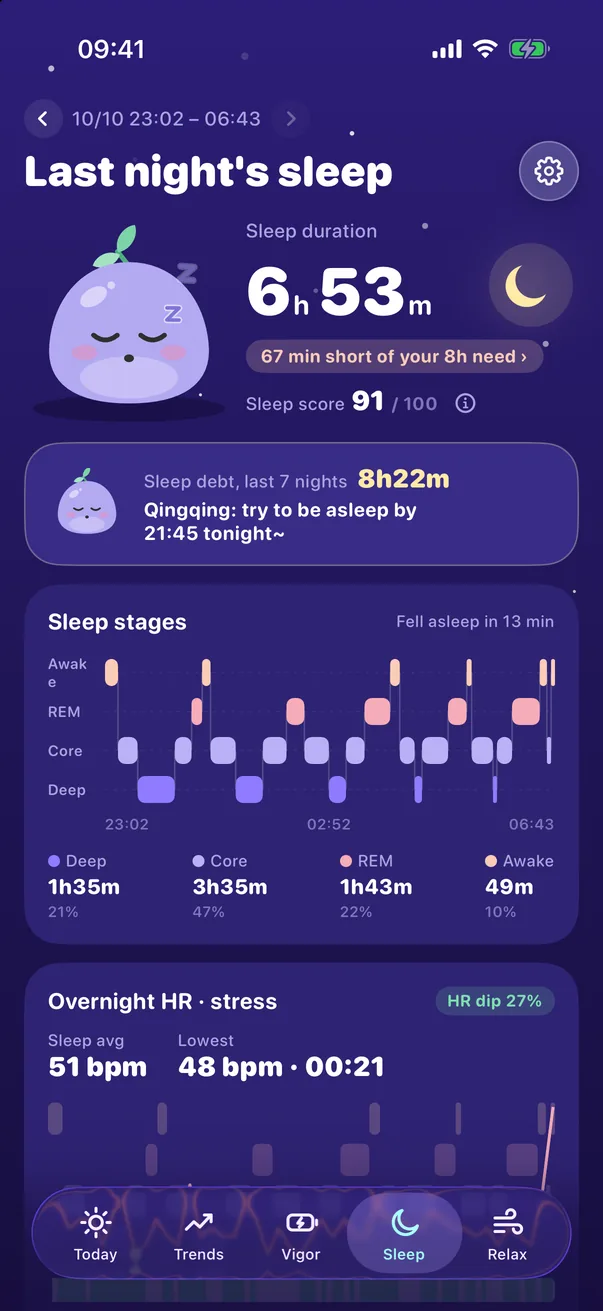
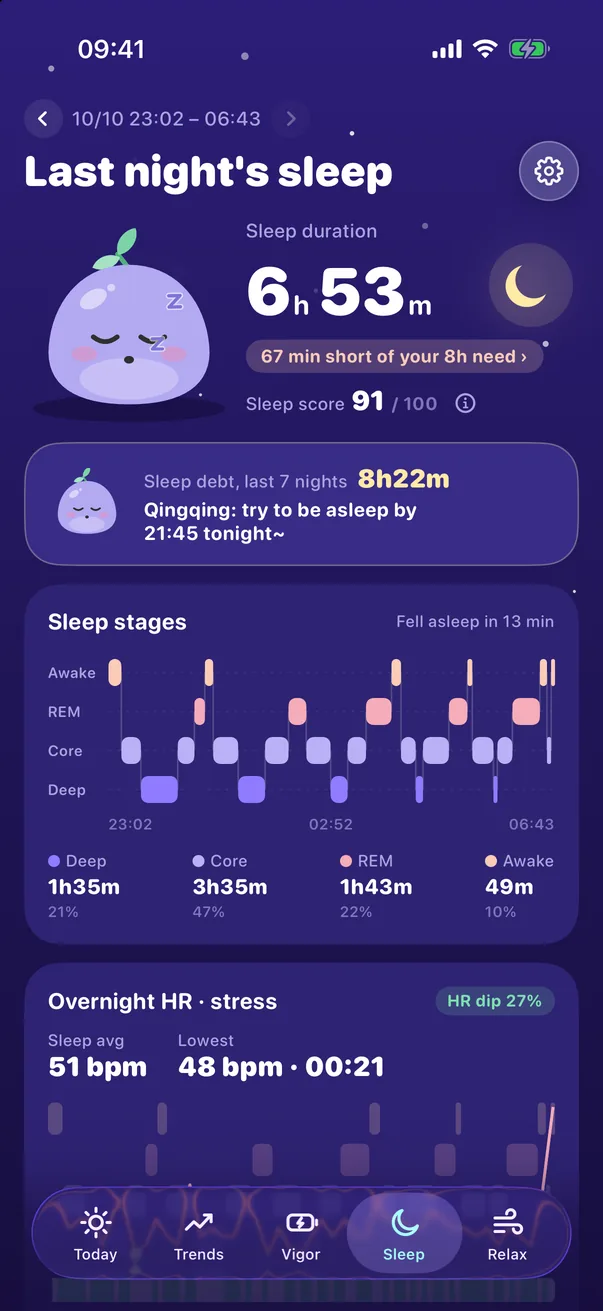
Homepage EN Sleep/Trends: retake screenshots after app l10n fixes (h/day, Awake label)

diff --git a/en/index.html b/en/index.html
@@ -19,7 +19,7 @@
 <img class="mas" src="../assets/qingqing.svg?v=ae6b4a3a9c" alt="" width="135" height="135"></div>
 <p class="shotnote">Screenshots from the current app (demo data).</p></section>
 <section id="features" class="feat"><div class="wrap"><p class="kick reveal">FEATURES</p><h2 class="reveal">Built around your own baseline</h2></div>
-<div class="wrap sgrid"><div class="steps"><div class="step reveal" data-step="0"><span class="n">01</span><h3>Stress, plain and clear</h3><p>HRV and resting heart rate become four clear levels — Chill, Steady, Tense, Stressed — with a stress index and 7-day average. Quick mood check-ins calibrate it to how you actually feel.</p><div class="inl"><div class="ph"><img src="../assets/today-en.webp?v=27ea3ea22e" alt="Clairsy Today" width="603" height="1311" loading="lazy"></div></div></div><div class="step reveal" data-step="1"><span class="n">02</span><h3>Daily Vigor drains</h3><p>Each morning Clairsy sets your Daily Vigor from recovery, sleep and training load — then stress drains it through the day, so you can see how much you have left.</p><div class="inl"><div class="ph"><img src="../assets/vigor-en.webp?v=d0a4bb5afe" alt="Daily Vigor" width="603" height="1311" loading="lazy"></div></div></div><div class="step reveal" data-step="2"><span class="n">03</span><h3>Sleep at a glance</h3><p>Last night’s duration, sleep score, 7-night sleep debt and stages — deep, core, REM and awake — all free, with Qingqing suggesting a bedtime. Membership adds in-depth sleep analysis.</p><div class="inl"><div class="ph"><img src="../assets/sleep-en.webp?v=1a15da07bf" alt="Sleep" width="603" height="1311" loading="lazy"></div></div></div><div class="step reveal" data-step="3"><span class="n">04</span><h3>Trends you can see</h3><p>Day, week and month views of your HRV against your baseline, a breakdown of time spent Chill, Steady, Tense and Stressed, and a stress heat map that shows when you tend to tense up. Trends are part of Clairsy Membership.</p><div class="inl"><div class="ph"><img src="../assets/trends-en.webp?v=7d393c052a" alt="Trends" width="603" height="1311" loading="lazy"></div></div></div><div class="step reveal" data-step="4"><span class="n">05</span><h3>Breathe it down</h3><p>Resonance breathing (4 in, 6 out), cyclic sighing, 4-7-8 and box breathing, with Qingqing breathing along — on iPhone and Apple Watch. Before-and-after readings show what changed.</p><div class="inl"><div class="ph"><img src="../assets/breath-en.webp?v=e8665a2bd9" alt="Breathing exercise" width="603" height="1311" loading="lazy"></div></div></div><div class="step reveal" data-step="5"><span class="n">06</span><h3>Your watch face keeps up</h3><p>Watch face and complications show your current level, with a one-tap “Measure now”, Home Screen widgets, and optional local stress alerts.</p><div class="inl"><div class="wa"><img src="../assets/watch-en.webp?v=7646d3a049" alt="Clairsy on Apple Watch" width="416" height="496" loading="lazy"></div></div></div></div><div class="sticky"><div class="devbox"><div class="frame on" data-frame="0"><div class="ph"><img src="../assets/today-en.webp?v=27ea3ea22e" alt="Clairsy Today" width="603" height="1311" loading="lazy"></div></div><div class="frame" data-frame="1"><div class="ph"><img src="../assets/vigor-en.webp?v=d0a4bb5afe" alt="Daily Vigor" width="603" height="1311" loading="lazy"></div></div><div class="frame" data-frame="2"><div class="ph"><img src="../assets/sleep-en.webp?v=1a15da07bf" alt="Sleep" width="603" height="1311" loading="lazy"></div></div><div class="frame" data-frame="3"><div class="ph"><img src="../assets/trends-en.webp?v=7d393c052a" alt="Trends" width="603" height="1311" loading="lazy"></div></div><div class="frame" data-frame="4"><div class="ph"><img src="../assets/breath-en.webp?v=e8665a2bd9" alt="Breathing exercise" width="603" height="1311" loading="lazy"></div></div><div class="frame" data-frame="5"><div class="wa"><img src="../assets/watch-en.webp?v=7646d3a049" alt="Clairsy on Apple Watch" width="416" height="496" loading="lazy"></div></div></div><div class="dots" aria-hidden="true"><i class="on"></i><i class=""></i><i class=""></i><i class=""></i><i class=""></i><i class=""></i></div></div></div></section>
+<div class="wrap sgrid"><div class="steps"><div class="step reveal" data-step="0"><span class="n">01</span><h3>Stress, plain and clear</h3><p>HRV and resting heart rate become four clear levels — Chill, Steady, Tense, Stressed — with a stress index and 7-day average. Quick mood check-ins calibrate it to how you actually feel.</p><div class="inl"><div class="ph"><img src="../assets/today-en.webp?v=27ea3ea22e" alt="Clairsy Today" width="603" height="1311" loading="lazy"></div></div></div><div class="step reveal" data-step="1"><span class="n">02</span><h3>Daily Vigor drains</h3><p>Each morning Clairsy sets your Daily Vigor from recovery, sleep and training load — then stress drains it through the day, so you can see how much you have left.</p><div class="inl"><div class="ph"><img src="../assets/vigor-en.webp?v=d0a4bb5afe" alt="Daily Vigor" width="603" height="1311" loading="lazy"></div></div></div><div class="step reveal" data-step="2"><span class="n">03</span><h3>Sleep at a glance</h3><p>Last night’s duration, sleep score, 7-night sleep debt and stages — deep, core, REM and awake — all free, with Qingqing suggesting a bedtime. Membership adds in-depth sleep analysis.</p><div class="inl"><div class="ph"><img src="../assets/sleep-en.webp?v=283b504065" alt="Sleep" width="603" height="1311" loading="lazy"></div></div></div><div class="step reveal" data-step="3"><span class="n">04</span><h3>Trends you can see</h3><p>Day, week and month views of your HRV against your baseline, a breakdown of time spent Chill, Steady, Tense and Stressed, and a stress heat map that shows when you tend to tense up. Trends are part of Clairsy Membership.</p><div class="inl"><div class="ph"><img src="../assets/trends-en.webp?v=13898853e0" alt="Trends" width="603" height="1311" loading="lazy"></div></div></div><div class="step reveal" data-step="4"><span class="n">05</span><h3>Breathe it down</h3><p>Resonance breathing (4 in, 6 out), cyclic sighing, 4-7-8 and box breathing, with Qingqing breathing along — on iPhone and Apple Watch. Before-and-after readings show what changed.</p><div class="inl"><div class="ph"><img src="../assets/breath-en.webp?v=e8665a2bd9" alt="Breathing exercise" width="603" height="1311" loading="lazy"></div></div></div><div class="step reveal" data-step="5"><span class="n">06</span><h3>Your watch face keeps up</h3><p>Watch face and complications show your current level, with a one-tap “Measure now”, Home Screen widgets, and optional local stress alerts.</p><div class="inl"><div class="wa"><img src="../assets/watch-en.webp?v=7646d3a049" alt="Clairsy on Apple Watch" width="416" height="496" loading="lazy"></div></div></div></div><div class="sticky"><div class="devbox"><div class="frame on" data-frame="0"><div class="ph"><img src="../assets/today-en.webp?v=27ea3ea22e" alt="Clairsy Today" width="603" height="1311" loading="lazy"></div></div><div class="frame" data-frame="1"><div class="ph"><img src="../assets/vigor-en.webp?v=d0a4bb5afe" alt="Daily Vigor" width="603" height="1311" loading="lazy"></div></div><div class="frame" data-frame="2"><div class="ph"><img src="../assets/sleep-en.webp?v=283b504065" alt="Sleep" width="603" height="1311" loading="lazy"></div></div><div class="frame" data-frame="3"><div class="ph"><img src="../assets/trends-en.webp?v=13898853e0" alt="Trends" width="603" height="1311" loading="lazy"></div></div><div class="frame" data-frame="4"><div class="ph"><img src="../assets/breath-en.webp?v=e8665a2bd9" alt="Breathing exercise" width="603" height="1311" loading="lazy"></div></div><div class="frame" data-frame="5"><div class="wa"><img src="../assets/watch-en.webp?v=7646d3a049" alt="Clairsy on Apple Watch" width="416" height="496" loading="lazy"></div></div></div><div class="dots" aria-hidden="true"><i class="on"></i><i class=""></i><i class=""></i><i class=""></i><i class=""></i><i class=""></i></div></div></div></section>
 <section id="qingqing" class="meet"><div class="wrap"><div class="meetcard reveal">
 <div class="meetvis"><div class="meet-stage" aria-hidden="true"><img class="meet-face on" data-mood="chill" src="../assets/moods/chill.png?v=1ec6799918" alt="" width="220" height="220" loading="lazy"><img class="meet-face" data-mood="steady" src="../assets/moods/steady.png?v=08b04779e4" alt="" width="220" height="220" loading="lazy"><img class="meet-face" data-mood="tense" src="../assets/moods/tense.png?v=b3b451586a" alt="" width="220" height="220" loading="lazy"><img class="meet-face" data-mood="stressed" src="../assets/moods/stressed.png?v=03b7959c35" alt="" width="220" height="220" loading="lazy"></div>
 <div class="moods" role="group" aria-label="Meet Qingqing"><button type="button" class="mood on" data-mood="chill" aria-pressed="true"><img src="../assets/moods/chill.png?v=1ec6799918" alt="" width="56" height="56" loading="lazy"><span>Chill</span></button><button type="button" class="mood" data-mood="steady" aria-pressed="false"><img src="../assets/moods/steady.png?v=08b04779e4" alt="" width="56" height="56" loading="lazy"><span>Steady</span></button><button type="button" class="mood" data-mood="tense" aria-pressed="false"><img src="../assets/moods/tense.png?v=b3b451586a" alt="" width="56" height="56" loading="lazy"><span>Tense</span></button><button type="button" class="mood" data-mood="stressed" aria-pressed="false"><img src="../assets/moods/stressed.png?v=03b7959c35" alt="" width="56" height="56" loading="lazy"><span>Stressed</span></button></div></div>
